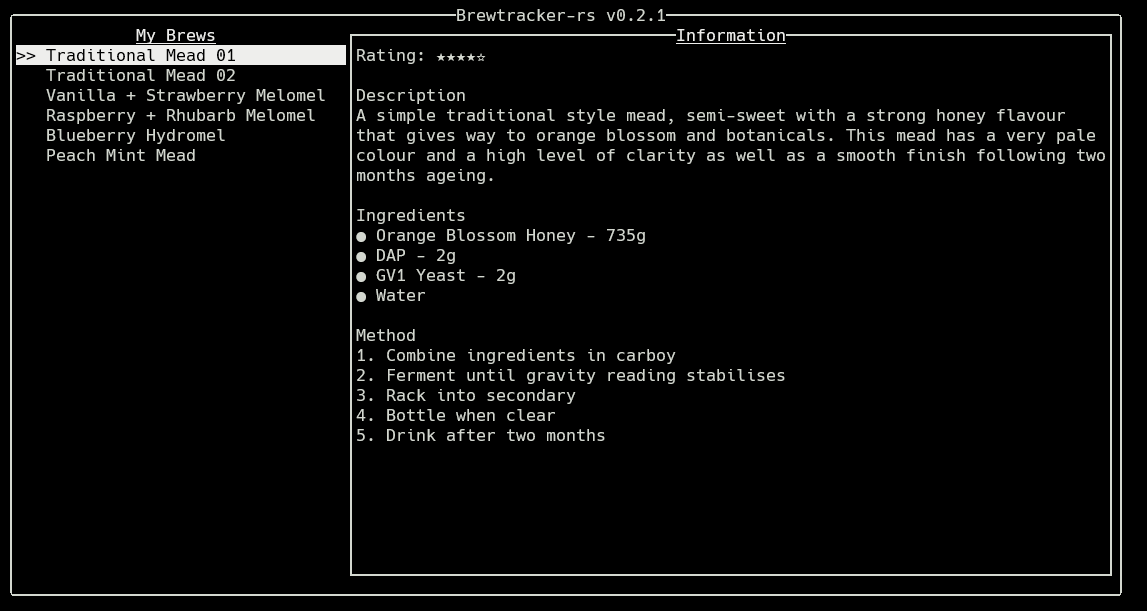
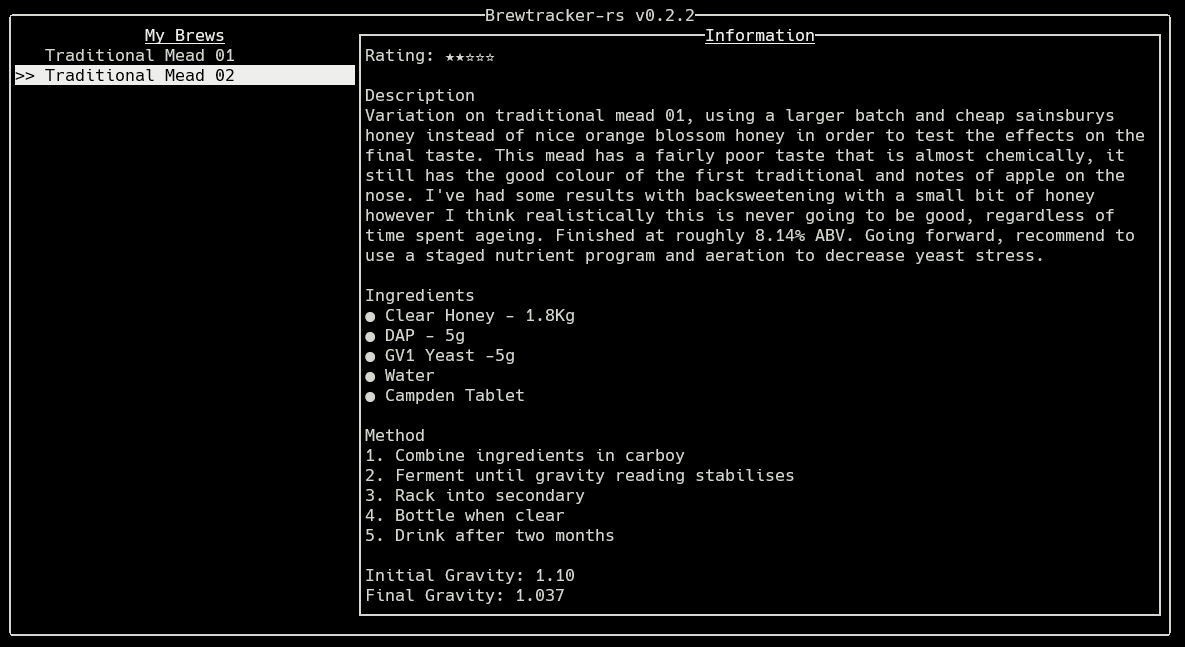
Updated example photo and version number

Changed region(s): [[0.0, 0.0, 1.0, 0.9951]]

diff --git a/src/app.rs b/src/app.rs
@@ -95,7 +95,7 @@ fn ui<B: Backend>(f: &mut Frame<B>, app: &mut App) {
     // Surrounding block
     let block = Block::default()
         .borders(Borders::ALL)
-        .title("Brewtracker-rs v0.2.1")
+        .title("Brewtracker-rs v0.2.2")
         .title_alignment(Alignment::Center)
         .border_type(BorderType::Rounded);
     f.render_widget(block, size);
